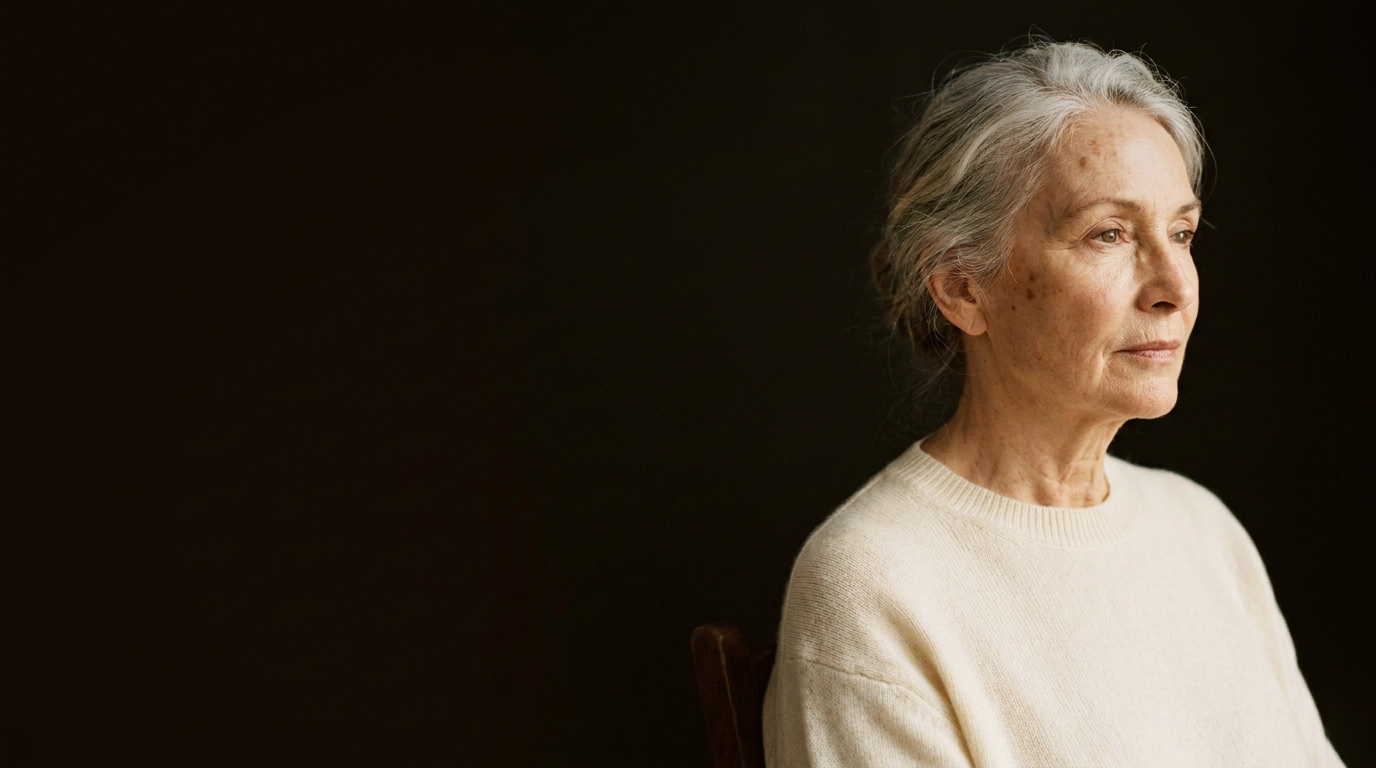
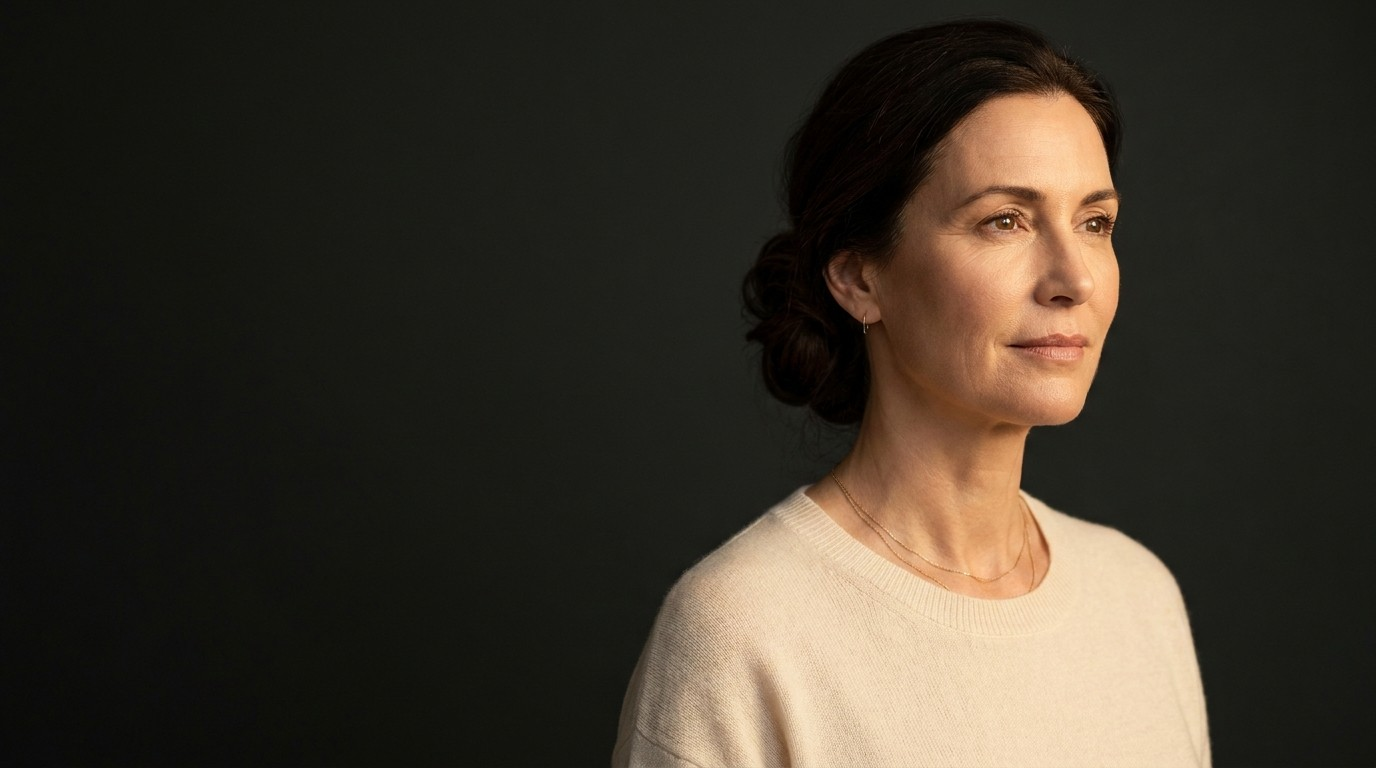
Hero neu (Gremium-Sieger) + Ken-Burns-Zoom + Ausblick-Teaser (Shop/Mitglieder)

diff --git a/index.html b/index.html
@@ -189,6 +189,29 @@
   </div>
 </section>
 
+<!-- AUSBLICK · optionale Phasen (dezenter Teaser) -->
+<section class="b-section b-container" id="ausblick">
+  <div class="b-head c b-reveal">
+    <span class="b-eyebrow c">Ausblick · Optionale Phasen</span>
+    <h2>Mitwachsen, wenn Sie bereit sind.</h2>
+    <p>Zwei Module sind konzeptionell vorbereitet und jederzeit als eigene Phase zuschaltbar – ohne die Hauptseite zu belasten.</p>
+  </div>
+  <div class="ausblick-grid b-reveal">
+    <article class="ausblick-card">
+      <span class="ausblick-tag">in Planung</span>
+      <h3>Patienten- &amp; Longevity-Bereich</h3>
+      <p>Geschützter Login für persönliche Anamnese-Auswertungen, Verlaufsberichte und exklusive Inhalte.</p>
+      <span class="ausblick-meta">Mitgliederbereich · MemberPress / Restrict Content Pro</span>
+    </article>
+    <article class="ausblick-card">
+      <span class="ausblick-tag">in Planung</span>
+      <h3>Online-Shop</h3>
+      <p>Hautpflege-Produkte, Behandlungspakete und Gutscheine – Schweizer Zahlung, DSG-konform.</p>
+      <span class="ausblick-meta">Shop · WooCommerce</span>
+    </article>
+  </div>
+</section>
+
 <!-- CTA -->
 <section class="b-section b-cta" id="kontakt">
   <span class="glow"></span>

diff --git a/assets/style-b.css b/assets/style-b.css
@@ -96,7 +96,21 @@ h1, h2, h3 { font-family: var(--serif); font-weight: 400; line-height: 1.04; let
 /* ---------- HERO ---------- */
 .b-hero { position: relative; min-height: 100svh; display: flex; align-items: center; overflow: hidden; }
 .b-hero-bg { position: absolute; inset: 0; z-index: 0; background: var(--noir-2); }
-.b-hero-bg img { width: 100%; height: 100%; object-fit: cover; object-position: 70% center; opacity: 0.92; }
+.b-hero-bg img { width: 100%; height: 100%; object-fit: cover; object-position: 70% center; opacity: 0.92;
+  animation: aurea-kenburns 30s ease-in-out infinite alternate; transform-origin: 70% 42%; will-change: transform; }
+/* Ken-Burns: kaum merklicher Slow-Zoom (lebendig/bedacht, 0 zusätzliche Bytes, GPU). */
+@keyframes aurea-kenburns { from { transform: scale(1); } to { transform: scale(1.055); } }
+@media (prefers-reduced-motion: reduce) { .b-hero-bg img { animation: none; } }
+
+/* Ausblick — optionale Phasen (dezenter „in Planung"-Teaser) */
+.ausblick-grid { display: grid; grid-template-columns: 1fr 1fr; gap: 1.2rem; max-width: 940px; margin: 0 auto; }
+.ausblick-card { position: relative; border: 1px solid var(--line); border-radius: 14px; padding: 1.9rem 1.8rem; background: var(--noir-2); }
+.ausblick-tag { display: inline-block; font-size: 0.68rem; letter-spacing: 0.18em; text-transform: uppercase; color: var(--gold);
+  border: 1px solid var(--line); border-radius: 100px; padding: 0.28rem 0.75rem; margin-bottom: 1.1rem; }
+.ausblick-card h3 { font-family: var(--serif); font-size: 1.35rem; font-weight: 400; color: var(--bone); margin-bottom: 0.55rem; }
+.ausblick-card p { color: var(--bone-mut); font-size: 0.97rem; line-height: 1.6; }
+.ausblick-meta { display: block; margin-top: 1.1rem; font-size: 0.76rem; letter-spacing: 0.05em; color: var(--bone-mut); opacity: 0.65; }
+@media (max-width: 720px) { .ausblick-grid { grid-template-columns: 1fr; } }
 .b-hero-bg::after { content: ""; position: absolute; inset: 0; background:
   linear-gradient(90deg, var(--noir) 8%, rgba(23,19,15,0.72) 42%, rgba(23,19,15,0.30) 70%, rgba(23,19,15,0.55) 100%),
   linear-gradient(0deg, var(--noir) 2%, transparent 30%); }